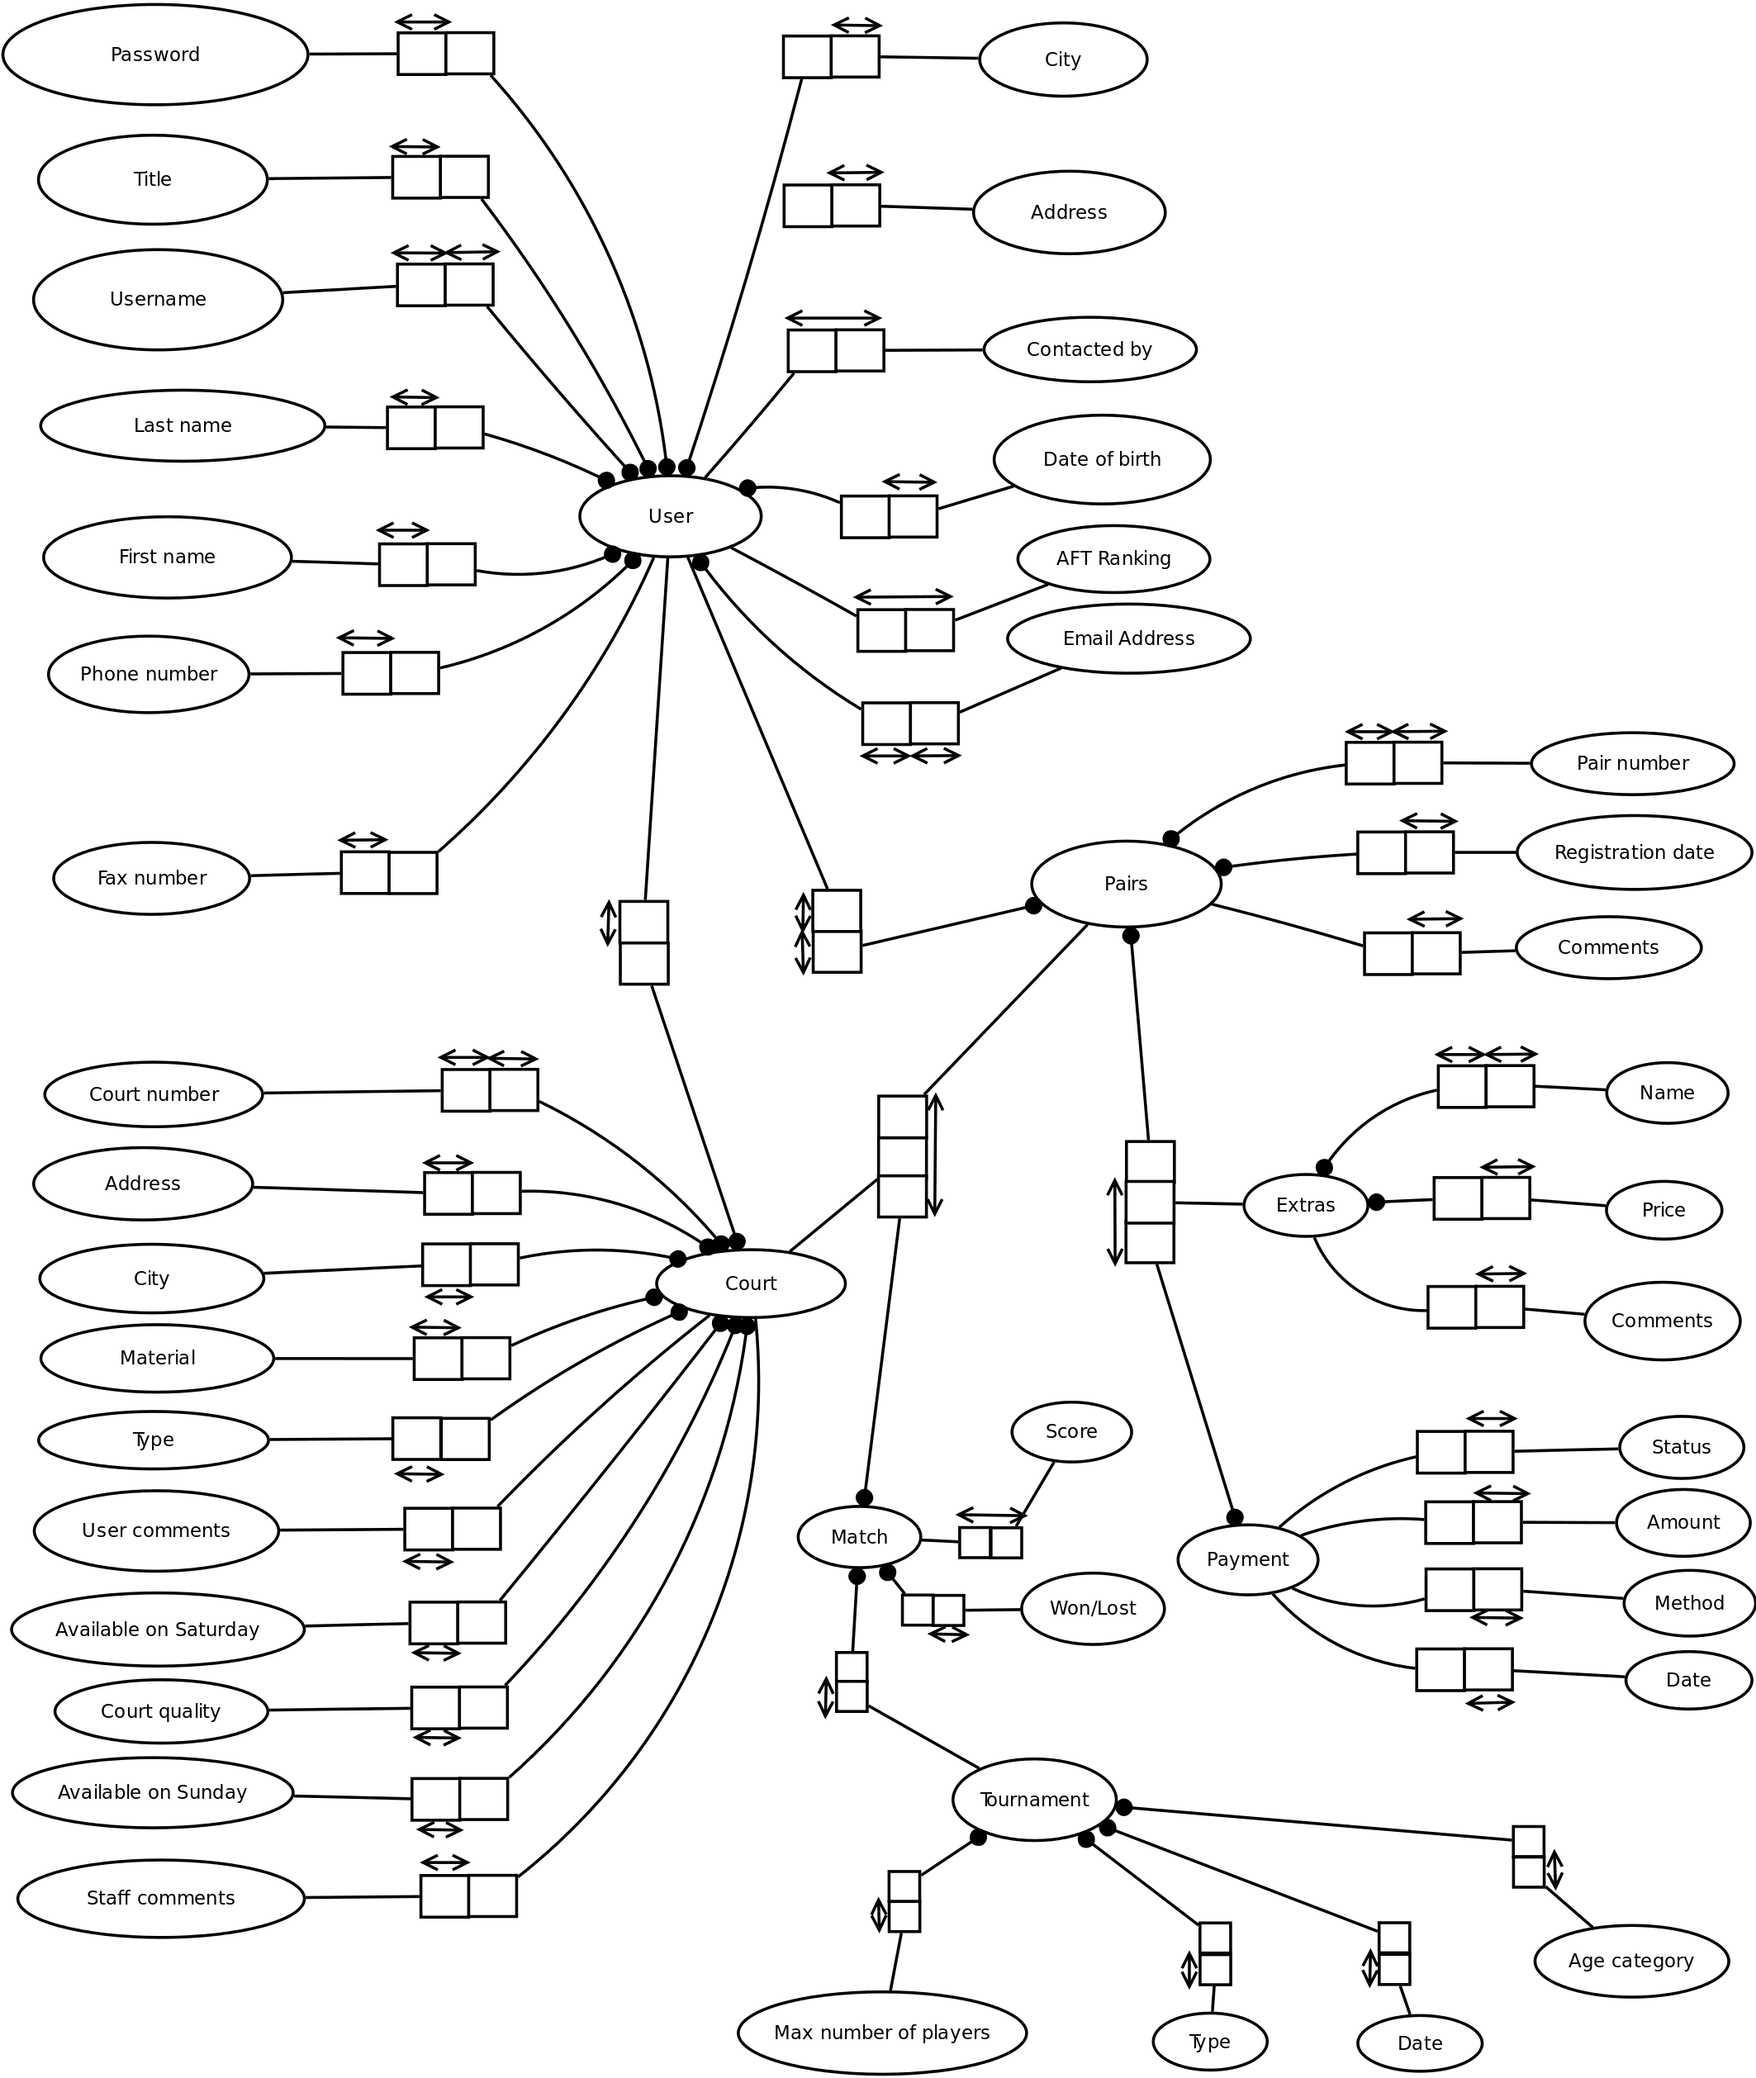
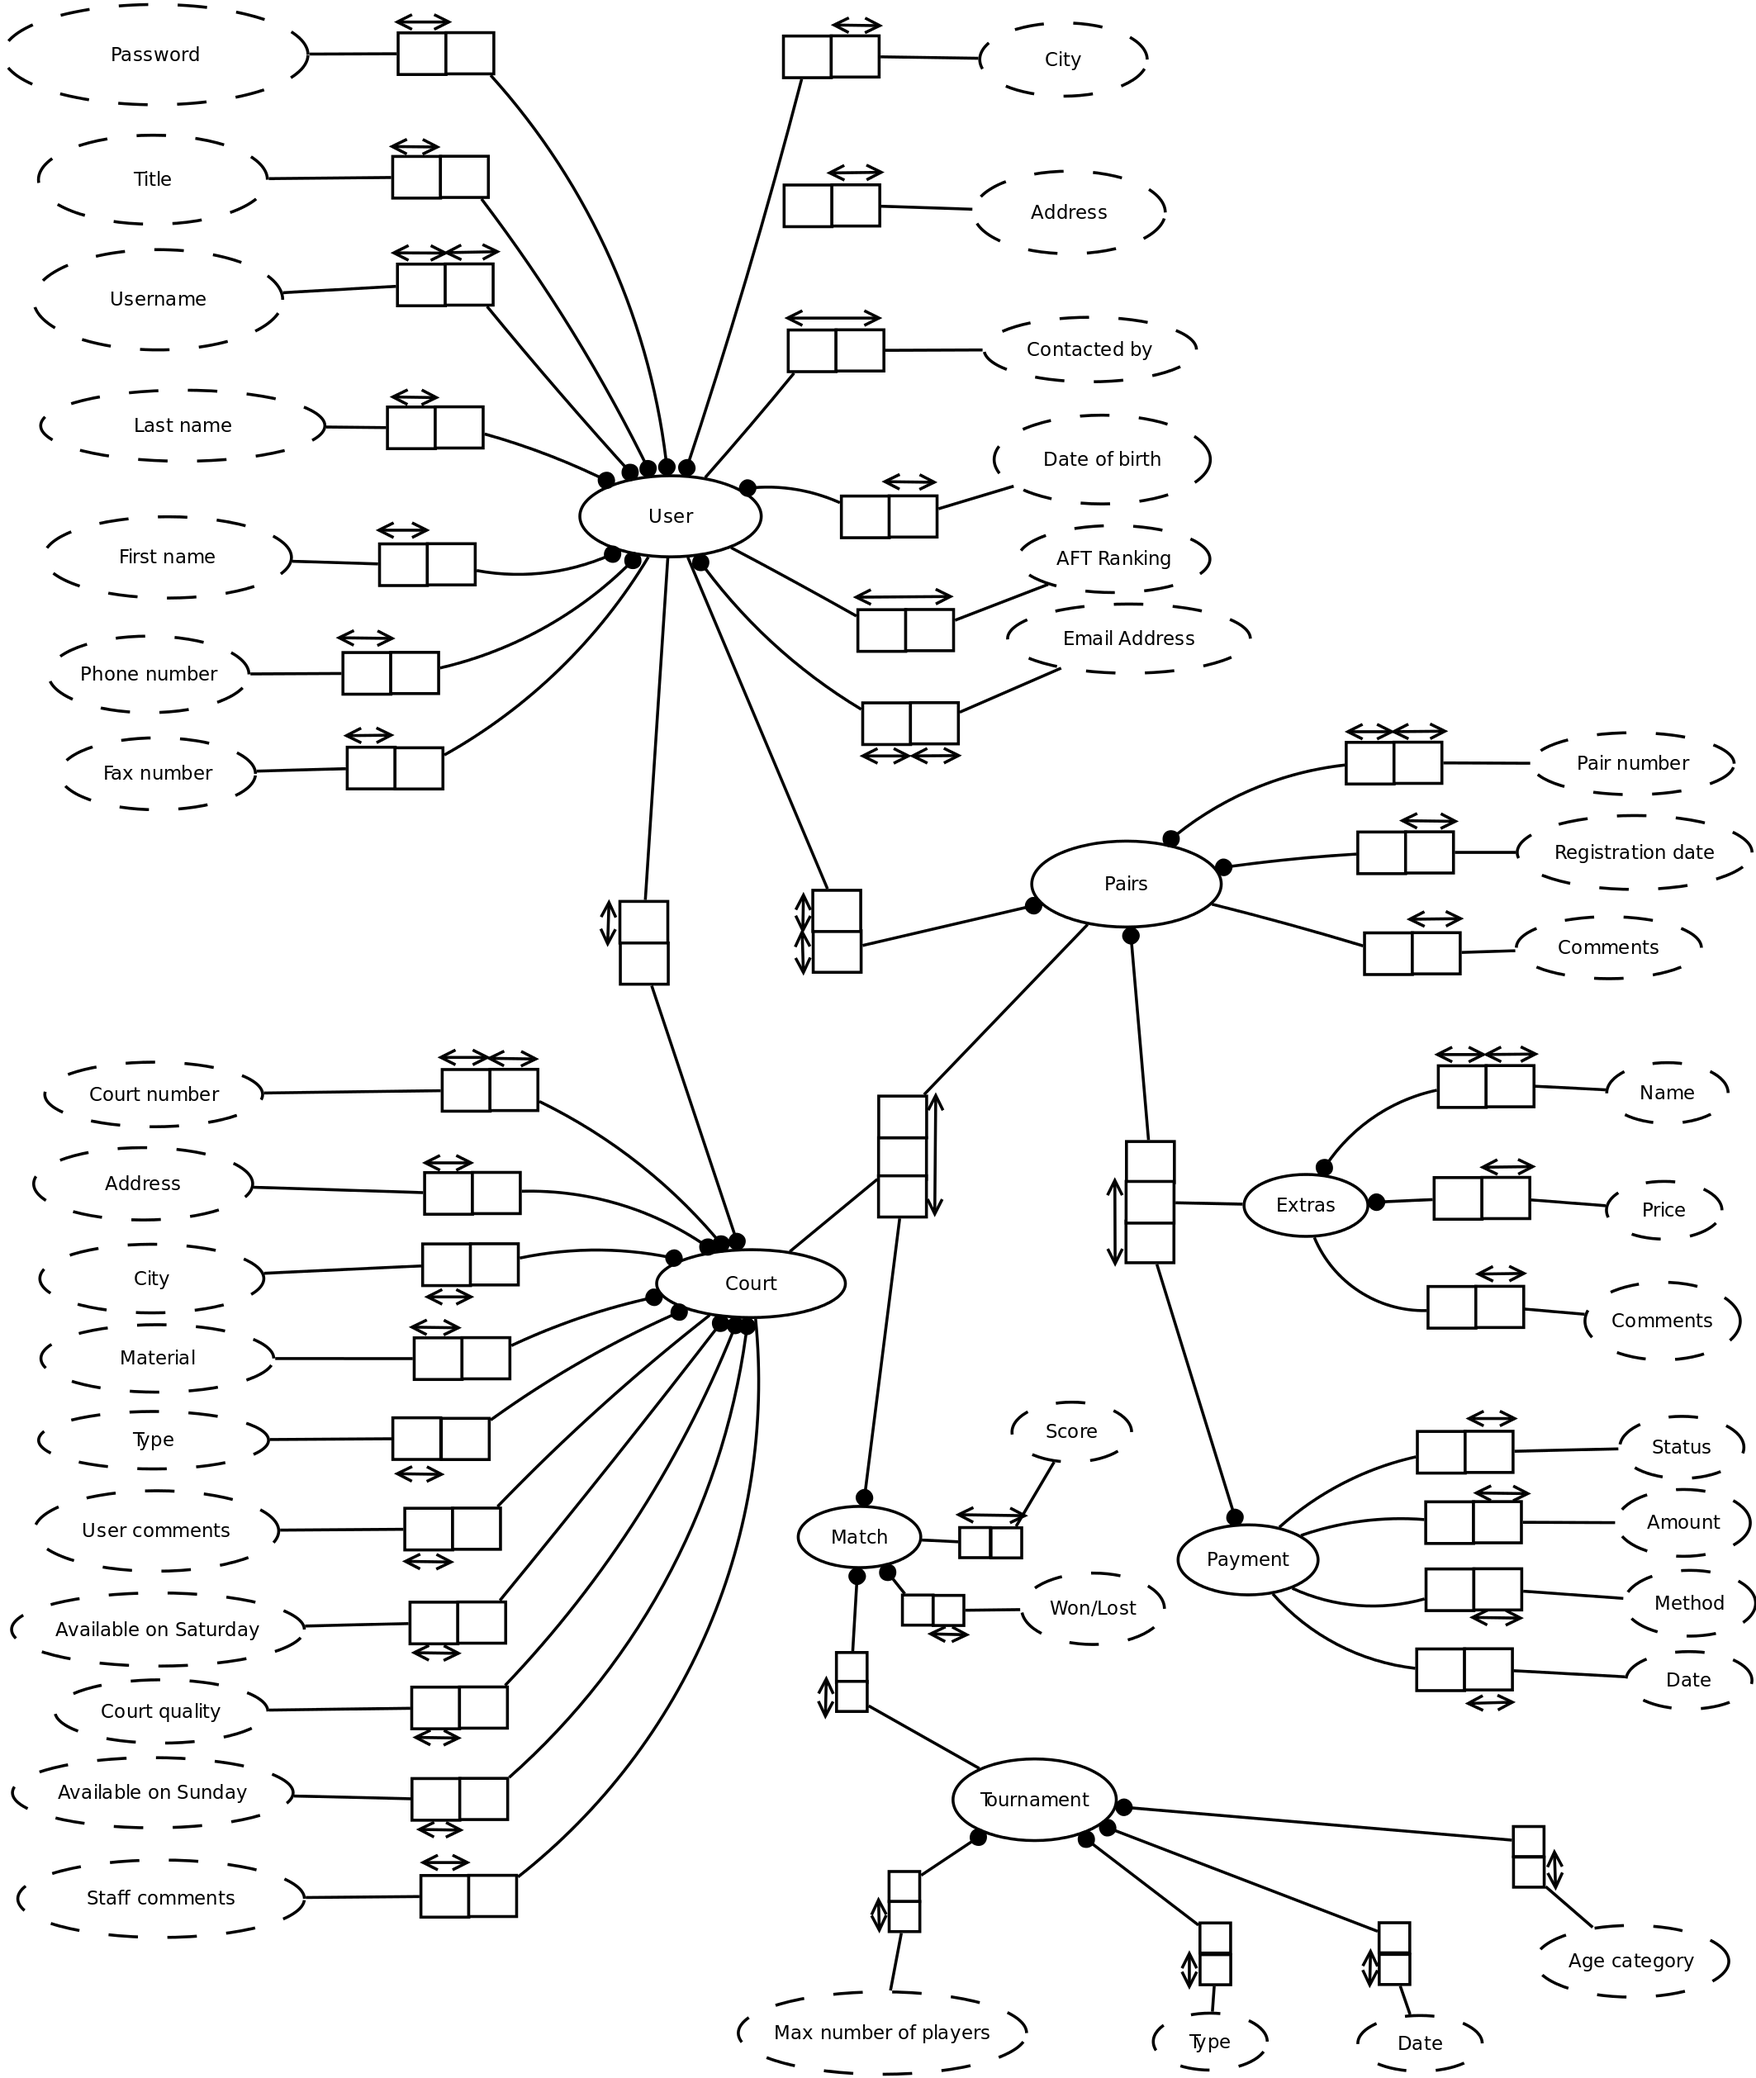
update de ORM pour différencier object/role

diff --git a/LaTeX/report2/orm.tex b/LaTeX/report2/orm.tex
@@ -1,3 +1,12 @@
-
 %ORM
-\section{ORM}
+\section{Object-Role Modeling}
+
+Here is the ORM representation of our project, it shows how the different
+parts of the project will act in the database :
+
+\begin{figure}[!ht]
+    \centering
+    \includegraphics[width=\linewidth]{ORM.png}
+    \caption{ORM diagram}
+\end{figure}
+\FloatBarrier
